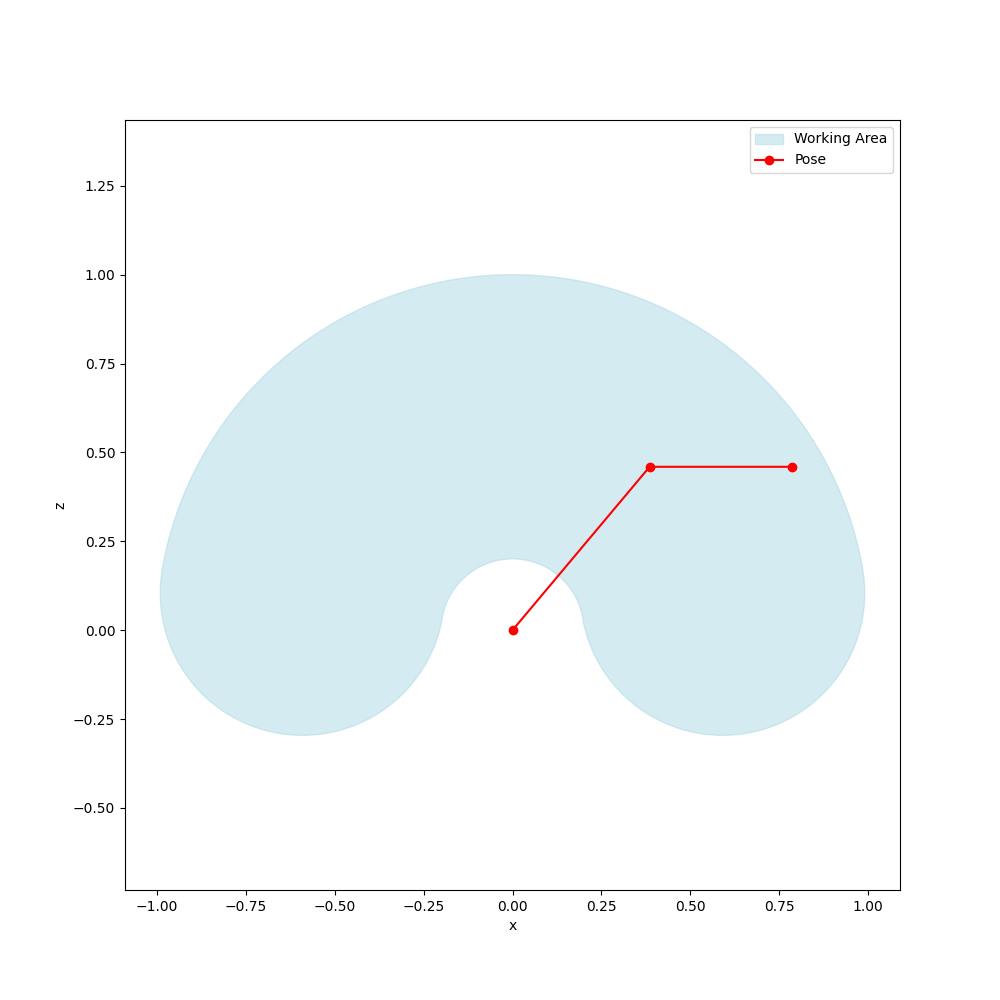
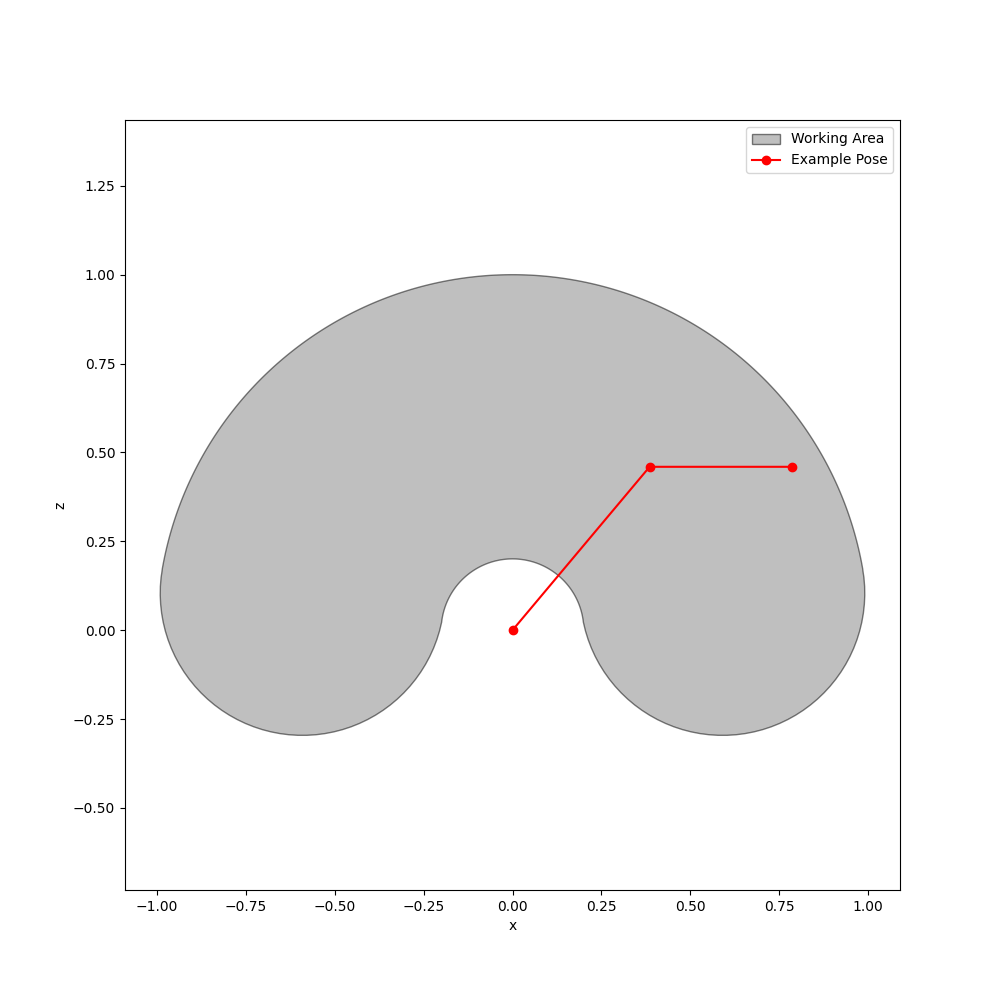
pretty

Changed region(s): [[0.155, 0.248, 0.868, 0.744], [0.744, 0.124, 0.899, 0.186]]

diff --git a/script.py b/script.py
@@ -17,10 +17,10 @@ def plot_alpha_shape(filename: str, robot: Robot):
     plt.axis("equal")
 
     x, y = alpha_shape_geom.exterior.xy
-    plt.fill(x, y, color='lightblue', alpha=0.5, label="Working Area")
+    plt.fill(x, y, facecolor="gray", edgecolor="black", alpha=0.5, label="Working Area")
 
     base, j1, j2 = robot.get_points(0, np.deg2rad(50), np.deg2rad(-50))
-    plt.plot(np.array([base[0], j1[0], j2[0]]), np.array([base[2], j1[2], j2[2]]), 'ro-', label="Pose")
+    plt.plot(np.array([base[0], j1[0], j2[0]]), np.array([base[2], j1[2], j2[2]]), 'ro-', label="Example Pose")
 
     plt.legend()
     plt.savefig("plots/work_area.png")
